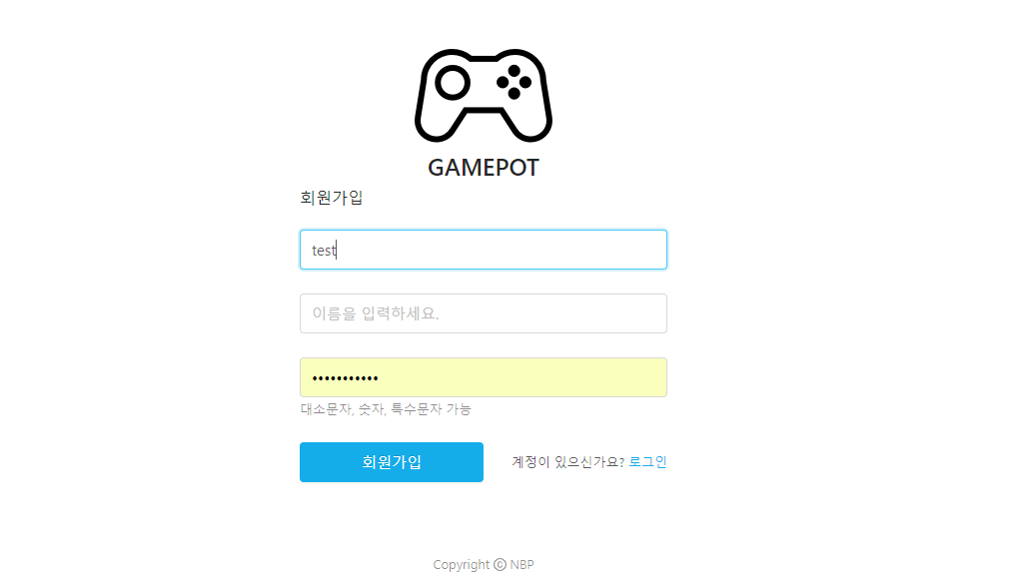
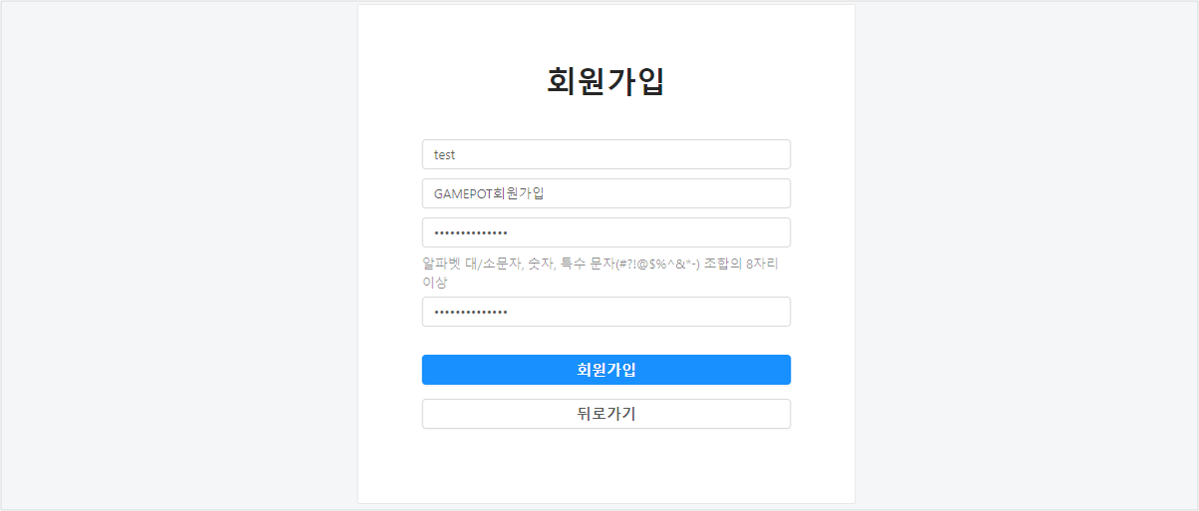
로그인~공지사항

Changed region(s): [[0.2727, 0.499, 0.6667, 0.8513], [0.2727, 0.0881, 0.6667, 0.4697], [0.4242, 0.9393, 0.5152, 0.998]]

diff --git a/Release_Guide/ko/game/gamepot_dashboard.md b/Release_Guide/ko/game/gamepot_dashboard.md
@@ -3,7 +3,7 @@ search:
   keyword: ['gamepot']
 ---
 
-NAVER Cloud Platform의 GAMEPOT에서 제공하는 대시보드를 사용하는 사람들을 위한 대시보드 전용 가이드입니다.
+NAVER Cloud Platform의 GAMEPOT에서 제공하는 대시보드에 대한 가이드입니다.
 
 ## GAMEPOT 대시보드 소개
 
@@ -25,17 +25,25 @@ NAVER Cloud Platform의 콘솔에서 대시보드 URL을 클릭하여 생성된 
 
 ![gamepot-1-200](./images/gamepot-1-200.png)
 
-대시보드에 접속하면 가장 먼저  **회원가입**을 클릭하여 계정을 생성해 주세요.
+#### STEP 2. 회원가입
+
+대시보드에 접속하면 가장 먼저  **GAMEPOT 회원가입**을 클릭하여 계정을 생성해 주세요.
 
 가장 처음에 생성된 계정이 대시보드 관리의 모든 권한을 갖는 마스터 계정이 됩니다.
 
 ![gamepot-1-201](./images/gamepot-1-201.png)
 
-#### STEP 2. 회원가입
-
 대시보드 이용할 계정을 생성합니다. 초기에 생성된 계정은 자동으로 마스터로 지정됩니다.
 
 ![gamepot-1-202](./images/gamepot-1-202.png)
+
+#### STEP 3. 로그인
+
+생성한 계정으로 로그인하여 대시보드에 접속합니다.
+
+![gamepot-1-202A](./images/gamepot-1-202A.png)
+
+
 
 ## 대시보드 메뉴 활용하기 
 
@@ -47,13 +55,13 @@ NAVER Cloud Platform의 콘솔에서 대시보드 URL을 클릭하여 생성된 
 
 ### 공지사항
 
-대시보드에 등록된 공지사항 이미지는 게임에 접속된 회원들에게 보입니다. 지정된 날짜와 스토어를 지정하면 해당 날짜 시간에 보이고 종료날짜 이후에는 표시되지 않습니다.
+대시보드에 등록된 공지사항 이미지는 게임에 접속한 회원들에게 노출됩니다. 노출할 일정 및 스토어를 지정하면 해당 조건에 맞춰 공지사항이 노출되고 일정 종료 후에는 노출되지 않습니다.
 
-공지사항 기능을 사용하기 위해서는 먼저 NAVER Cloud Platform의 API 인증키와 Object Storage 서비스가 필요합니다. 공지사항 기능을 사용하면서 발생하는 Object Storage 비용은 별도로 발생합니다.
+공지사항 기능을 사용하기 위해서는 먼저 NAVER Cloud Platform의 API 인증키와 Object Storage 서비스가 필요합니다. 공지사항 기능 사용 시 Object Storage 비용은 별도로 발생합니다.
 
 #### Step 1. API 인증키 준비
 
-공지사항 매뉴는 API를 통해 Object Storage를 연동하여 사용합니다. 따라서 NAVER Cloud Platform의 API 인증키를 사전에 준비해야 합니다.
+공지사항 메뉴는 API를 통해 Object Storage를 연동하여 사용합니다. 따라서 NAVER Cloud Platform의 API 인증키를 사전에 준비해야 합니다.
 
 API 인증키는 **포털 > 마이페이지 > 계정관리 > 인증키 관리** 메뉴에서 만들 수 있습니다.
 
@@ -65,7 +73,7 @@ API 인증키는 **포털 > 마이페이지 > 계정관리 > 인증키 관리** 
 
 #### Step 2. 대시보드와 API 인증키 연동하기
 
-발급 받은 인증키를 대시보드 연동을 해야 Object Storage의 버킷이 생성되고 공지사항 기능을 사용할 수 있습니다. 대시보드의 **설정 > NCP** 메뉴로 이동하여 API 인증키를 연결합니다.
+발급 받은 인증키를 대시보드 연동을 해야 Object Storage의 버킷이 생성되고 공지사항 기능을 사용할 수 있습니다. 대시보드의 **프로젝트 설정 > NCP** 메뉴로 이동하여 API 인증키를 연결합니다.
 
 ![gamepot-1-205](./images/gamepot-1-205.png)
 
@@ -75,7 +83,7 @@ API 인증키가 연결되면 Object Storage의 버킷이 자동으로 생성됩
 
 #### Step 3. 공지사항 추가
 
-공지사항을 추가하기 위해서는 좌측의 **공지사항 > 목록** 메뉴로 진입하여 **공지사항 추가** 버튼을 클릭합니다.
+공지사항을 추가하기 위해서는 **공지사항** 메뉴로 진입하여 **공지사항 추가** 버튼을 클릭합니다.
 
 ![gamepot-1-206](./images/gamepot-1-206.png)
 
@@ -83,13 +91,13 @@ API 인증키가 연결되면 Object Storage의 버킷이 자동으로 생성됩
 
 ![gamepot-1-207](./images/gamepot-1-207.png)
 
-① 이미지를 표시하고자 하는 시작일과 종료일을 지정합니다.
+① 노출할 공지사항의 시작일시와 종료일시를 지정합니다.
 
-② 스토어는 전체를 지정하거나 특정 스토어에만 보이도록 선택하실 수 있습니다.
+② 선택한 스토어의 분류에 따라 모든 스토어의 해당 앱에 공지사항이 노출되거나, 특정 스토어를 통하여 게임을 접속한 회원에게만 공지사항이 노출될 수 있도록 지정할 수 있습니다. 
 
-③ URL은 클릭 시에 오픈되는 페이지가 필요할 경우 지정하시면 됩니다.
+③ URL은 노출된 공지사항을 회원이 터치하여 별도의 페이지로 화면을 이동하게 합니다.
 
-④ 이미지를 마우스로 끌어다 놓거나 직접 지정하여 파일을 선택하실 수 있습니다.
+④ 노출될 공지사항 이미지를 마우스로 끌어다 놓거나 직접 파일을 선택하실 수 있습니다.
 
 ### 회원관리
 
